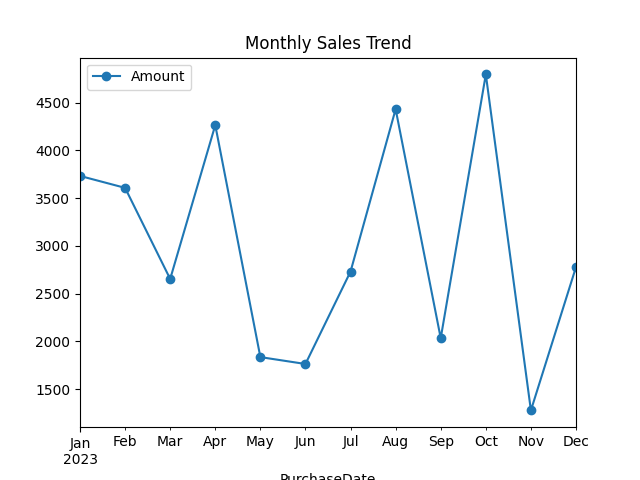
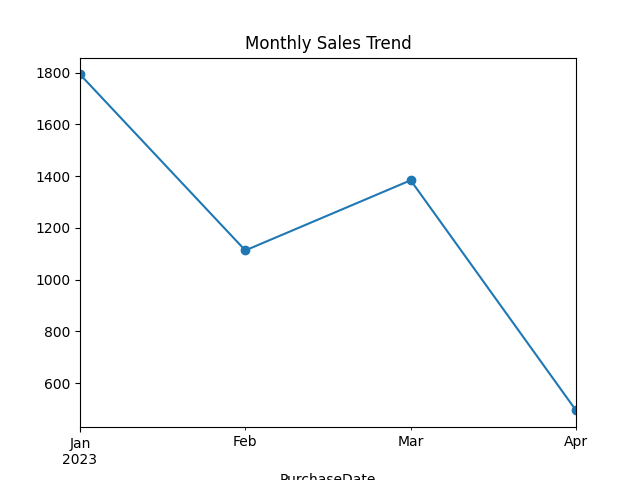
FIX: Make changes to sample data

diff --git a/app.py b/app.py
@@ -1,21 +1,16 @@
 from flask import Flask, render_template
 import pandas as pd
-import matplotlib.pyplot as plt
 import numpy as np
+import matplotlib.pyplot as plt
 
 app = Flask(__name__)
 
-# Generate sample data
+# Sample data generation function
 def generate_sample_data():
-    # Create a date range for the past 12 months
-    date_range = pd.date_range(start='2023-01-01', periods=12, freq='M')
-    
-    # Generate random sales data
-    np.random.seed(0)  # For reproducibility
-    sales_data = np.random.randint(1000, 5000, size=12)  # Random sales amounts
-    
-    # Create a DataFrame
-    data = pd.DataFrame({'PurchaseDate': date_range, 'Amount': sales_data})
+    np.random.seed(0)
+    dates = pd.date_range(start='2023-01-01', periods=100, freq='D')
+    amounts = np.random.randint(1, 100, size=len(dates))  # Random amounts
+    data = pd.DataFrame({'PurchaseDate': dates, 'Amount': amounts})
     return data
 
 @app.route('/')
@@ -23,8 +18,11 @@ def index():
     # Generate sample data
     data = generate_sample_data()
 
-    # Group by month and sum the Amount
-    monthly_sales = data.groupby(data['PurchaseDate'].dt.to_period('M')).sum(numeric_only=True)
+    # Ensure 'Amount' is numeric
+    data['Amount'] = pd.to_numeric(data['Amount'], errors='coerce')
+
+    # Use resampling to sum monthly sales
+    monthly_sales = data.set_index('PurchaseDate').resample('M').sum()['Amount']
 
     # Plot monthly sales trend and save as PNG
     monthly_sales_fig = monthly_sales.plot(kind='line', title='Monthly Sales Trend', marker='o').get_figure()
@@ -35,5 +33,5 @@ def index():
 
     return render_template("index.html", image="static/monthly_sales.png")
 
-if __name__ == "__main__":
+if __name__ == '__main__':
     app.run(debug=True)
